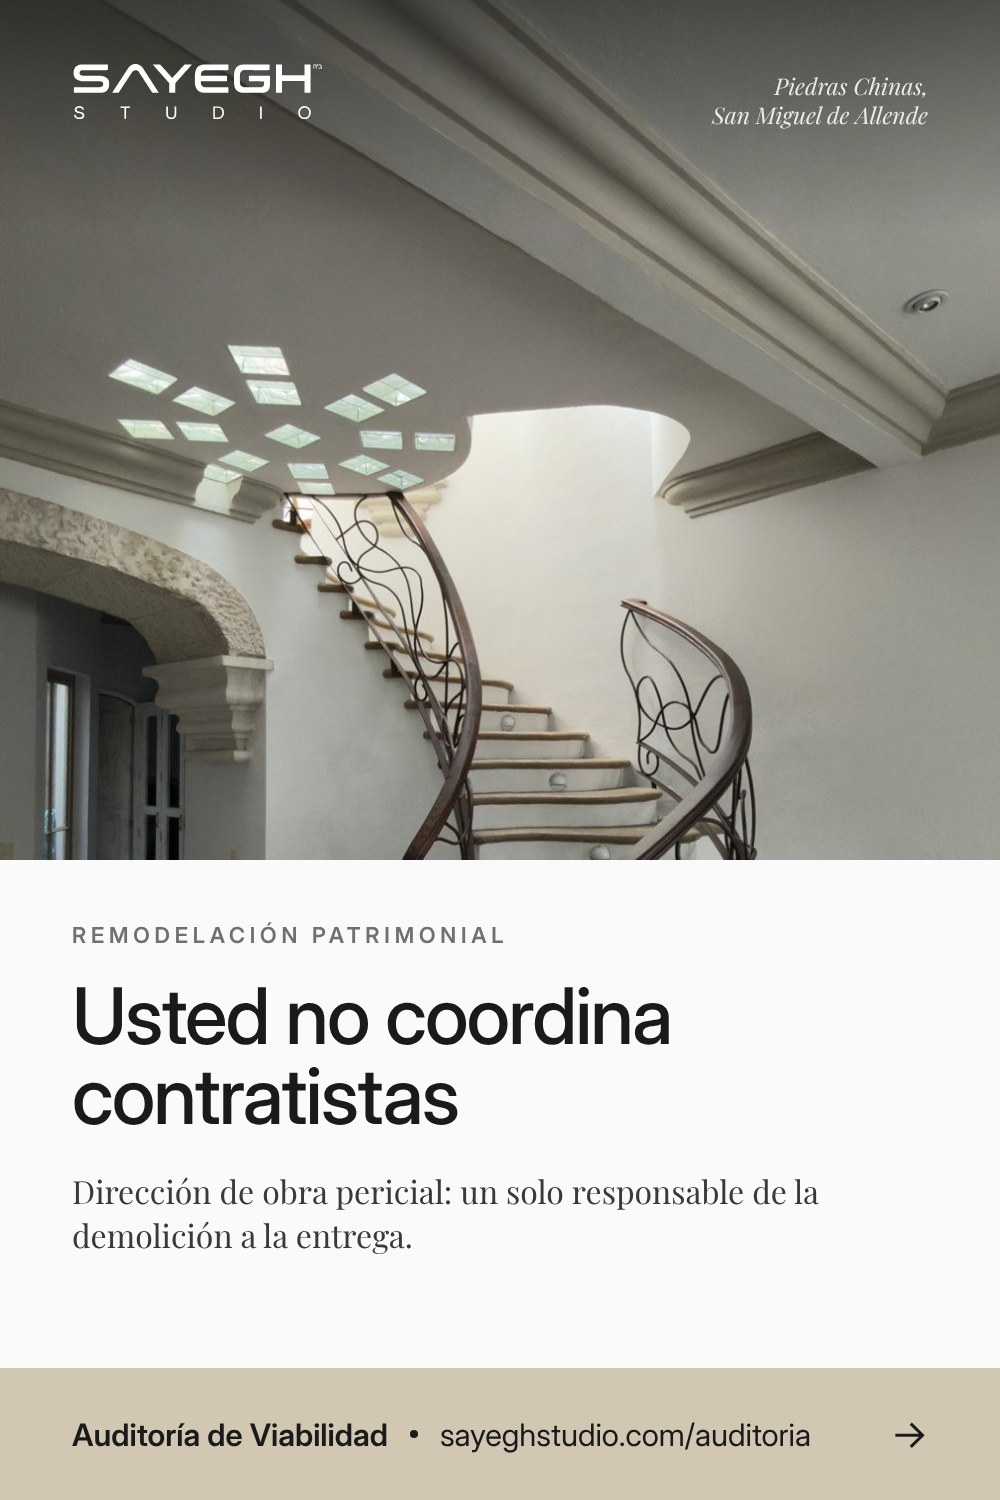
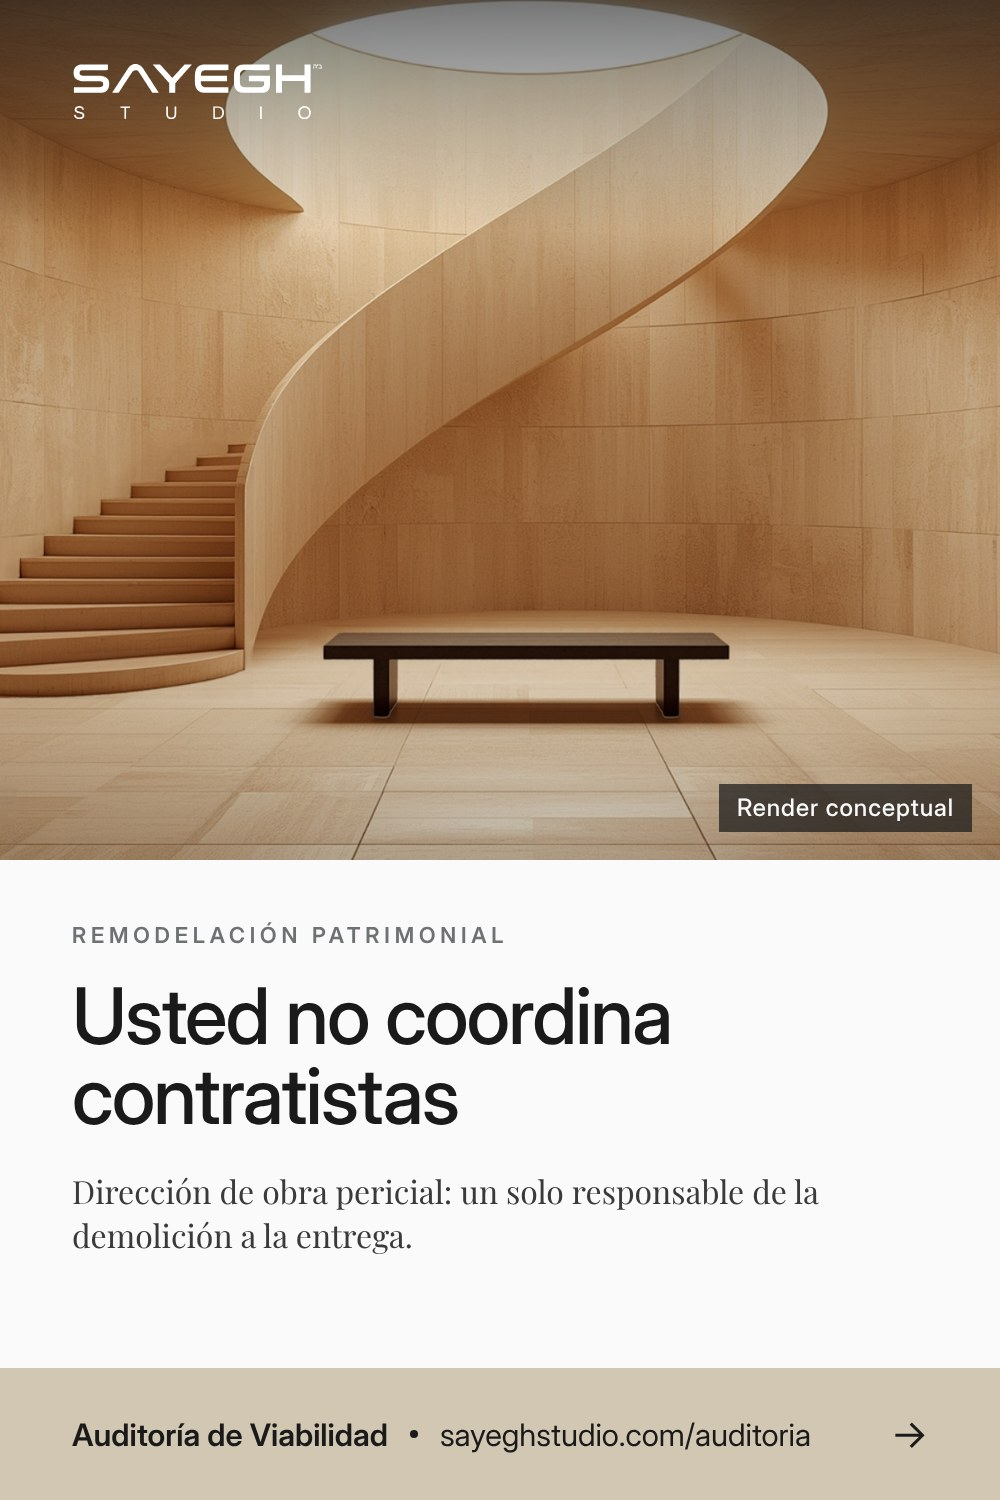
Pines 02 y 04: render en lugar de foto y travertino solo
Pin 02 usa el render lomas_vestibulo con la leyenda "Render
conceptual" y sin crédito de proyecto. Pin 04 muestra solo la
muestra de travertino a todo el ancho y su línea de apoyo ya no
menciona concreto aparente.

Claude-Session: https://claude.ai/code/session_019UkgFF53kPCXqmYp3k6mxm

diff --git a/tools/pines_conversion/generar_pines.js b/tools/pines_conversion/generar_pines.js
@@ -44,9 +44,8 @@ const PINES = [
   {
     id: 'pin-02-patrimonial',
     modo: 'split', tono: 'claro', mediaH: 860, textoTop: 924, h1: 78,
-    fotos: [{ src: repo('assets/images/projects/piedras_chinas.jpg'), pos: 'center 18%' }],
-    esRender: false,
-    credito: 'Piedras Chinas,<br>San Miguel de Allende',
+    fotos: [{ src: render('lomas_vestibulo.jpg'), pos: '45% center' }],
+    esRender: true,
     kicker: 'Remodelación patrimonial',
     titular: 'Usted no coordina contratistas',
     apoyo: 'Dirección de obra pericial: un solo responsable de la demolición a la entrega.',
@@ -64,13 +63,12 @@ const PINES = [
     id: 'pin-04-materiales',
     modo: 'split', tono: 'claro', mediaH: 860, textoTop: 924, h1: 74,
     fotos: [
-      { src: repo('assets/images/materials/travertino.jpg'), pos: 'center', etiqueta: 'Travertino' },
-      { src: repo('assets/images/materials/concreto.jpg'), pos: '70% center' },
+      { src: repo('assets/images/materials/travertino.jpg'), pos: 'center', etiqueta: 'Travertino' }
     ],
     esRender: false,
     kicker: 'Materialidad atemporal',
     titular: 'Materiales que no envejecen',
-    apoyo: 'Travertino y concreto aparente, elegidos para durar décadas y no temporadas.',
+    apoyo: 'Travertino a la veta, elegido para durar décadas y no temporadas.',
   },
   {
     id: 'pin-05-bano',

diff --git a/tools/pines_conversion/html/pin-04-materiales.html b/tools/pines_conversion/html/pin-04-materiales.html
@@ -56,13 +56,13 @@
 </head>
 <body>
 <div class="pin claro split">
-  <div class="media"><div class="foto" style="background-image:url('../../../assets/images/materials/travertino.jpg');background-position:center"><span class="etiqueta">Travertino</span></div><div class="foto" style="background-image:url('../../../assets/images/materials/concreto.jpg');background-position:70% center"></div></div>
+  <div class="media"><div class="foto" style="background-image:url('../../../assets/images/materials/travertino.jpg');background-position:center"><span class="etiqueta">Travertino</span></div></div>
   <img class="logo" src="../logos/sayegh-principal-negativo.svg" alt="Sayegh Studio">
   
   <div class="texto">
     <div class="kicker">Materialidad atemporal</div>
     <h1>Materiales que no envejecen</h1>
-    <p class="apoyo">Travertino y concreto aparente, elegidos para durar décadas y no temporadas.</p>
+    <p class="apoyo">Travertino a la veta, elegido para durar décadas y no temporadas.</p>
   </div>
   <div class="cinta">
     <span class="accion">Auditoría de Viabilidad</span><span class="sep"></span><span class="url">sayeghstudio.com/auditoria</span>

diff --git a/tools/pines_conversion/html/pin-02-patrimonial.html b/tools/pines_conversion/html/pin-02-patrimonial.html
@@ -56,9 +56,9 @@
 </head>
 <body>
 <div class="pin claro split">
-  <div class="media"><div class="foto" style="background-image:url('../../../assets/images/projects/piedras_chinas.jpg');background-position:center 18%"></div></div>
+  <div class="media"><div class="foto" style="background-image:url('file:///mnt/project-files/05_Portafolio_Web/renders_zonas_2026-11-06/lomas_vestibulo.jpg');background-position:45% center"></div></div>
   <img class="logo" src="../logos/sayegh-principal-negativo.svg" alt="Sayegh Studio">
-  <span class="credito">Piedras Chinas,<br>San Miguel de Allende</span>
+  <span class="render">Render conceptual</span>
   <div class="texto">
     <div class="kicker">Remodelación patrimonial</div>
     <h1>Usted no coordina contratistas</h1>
